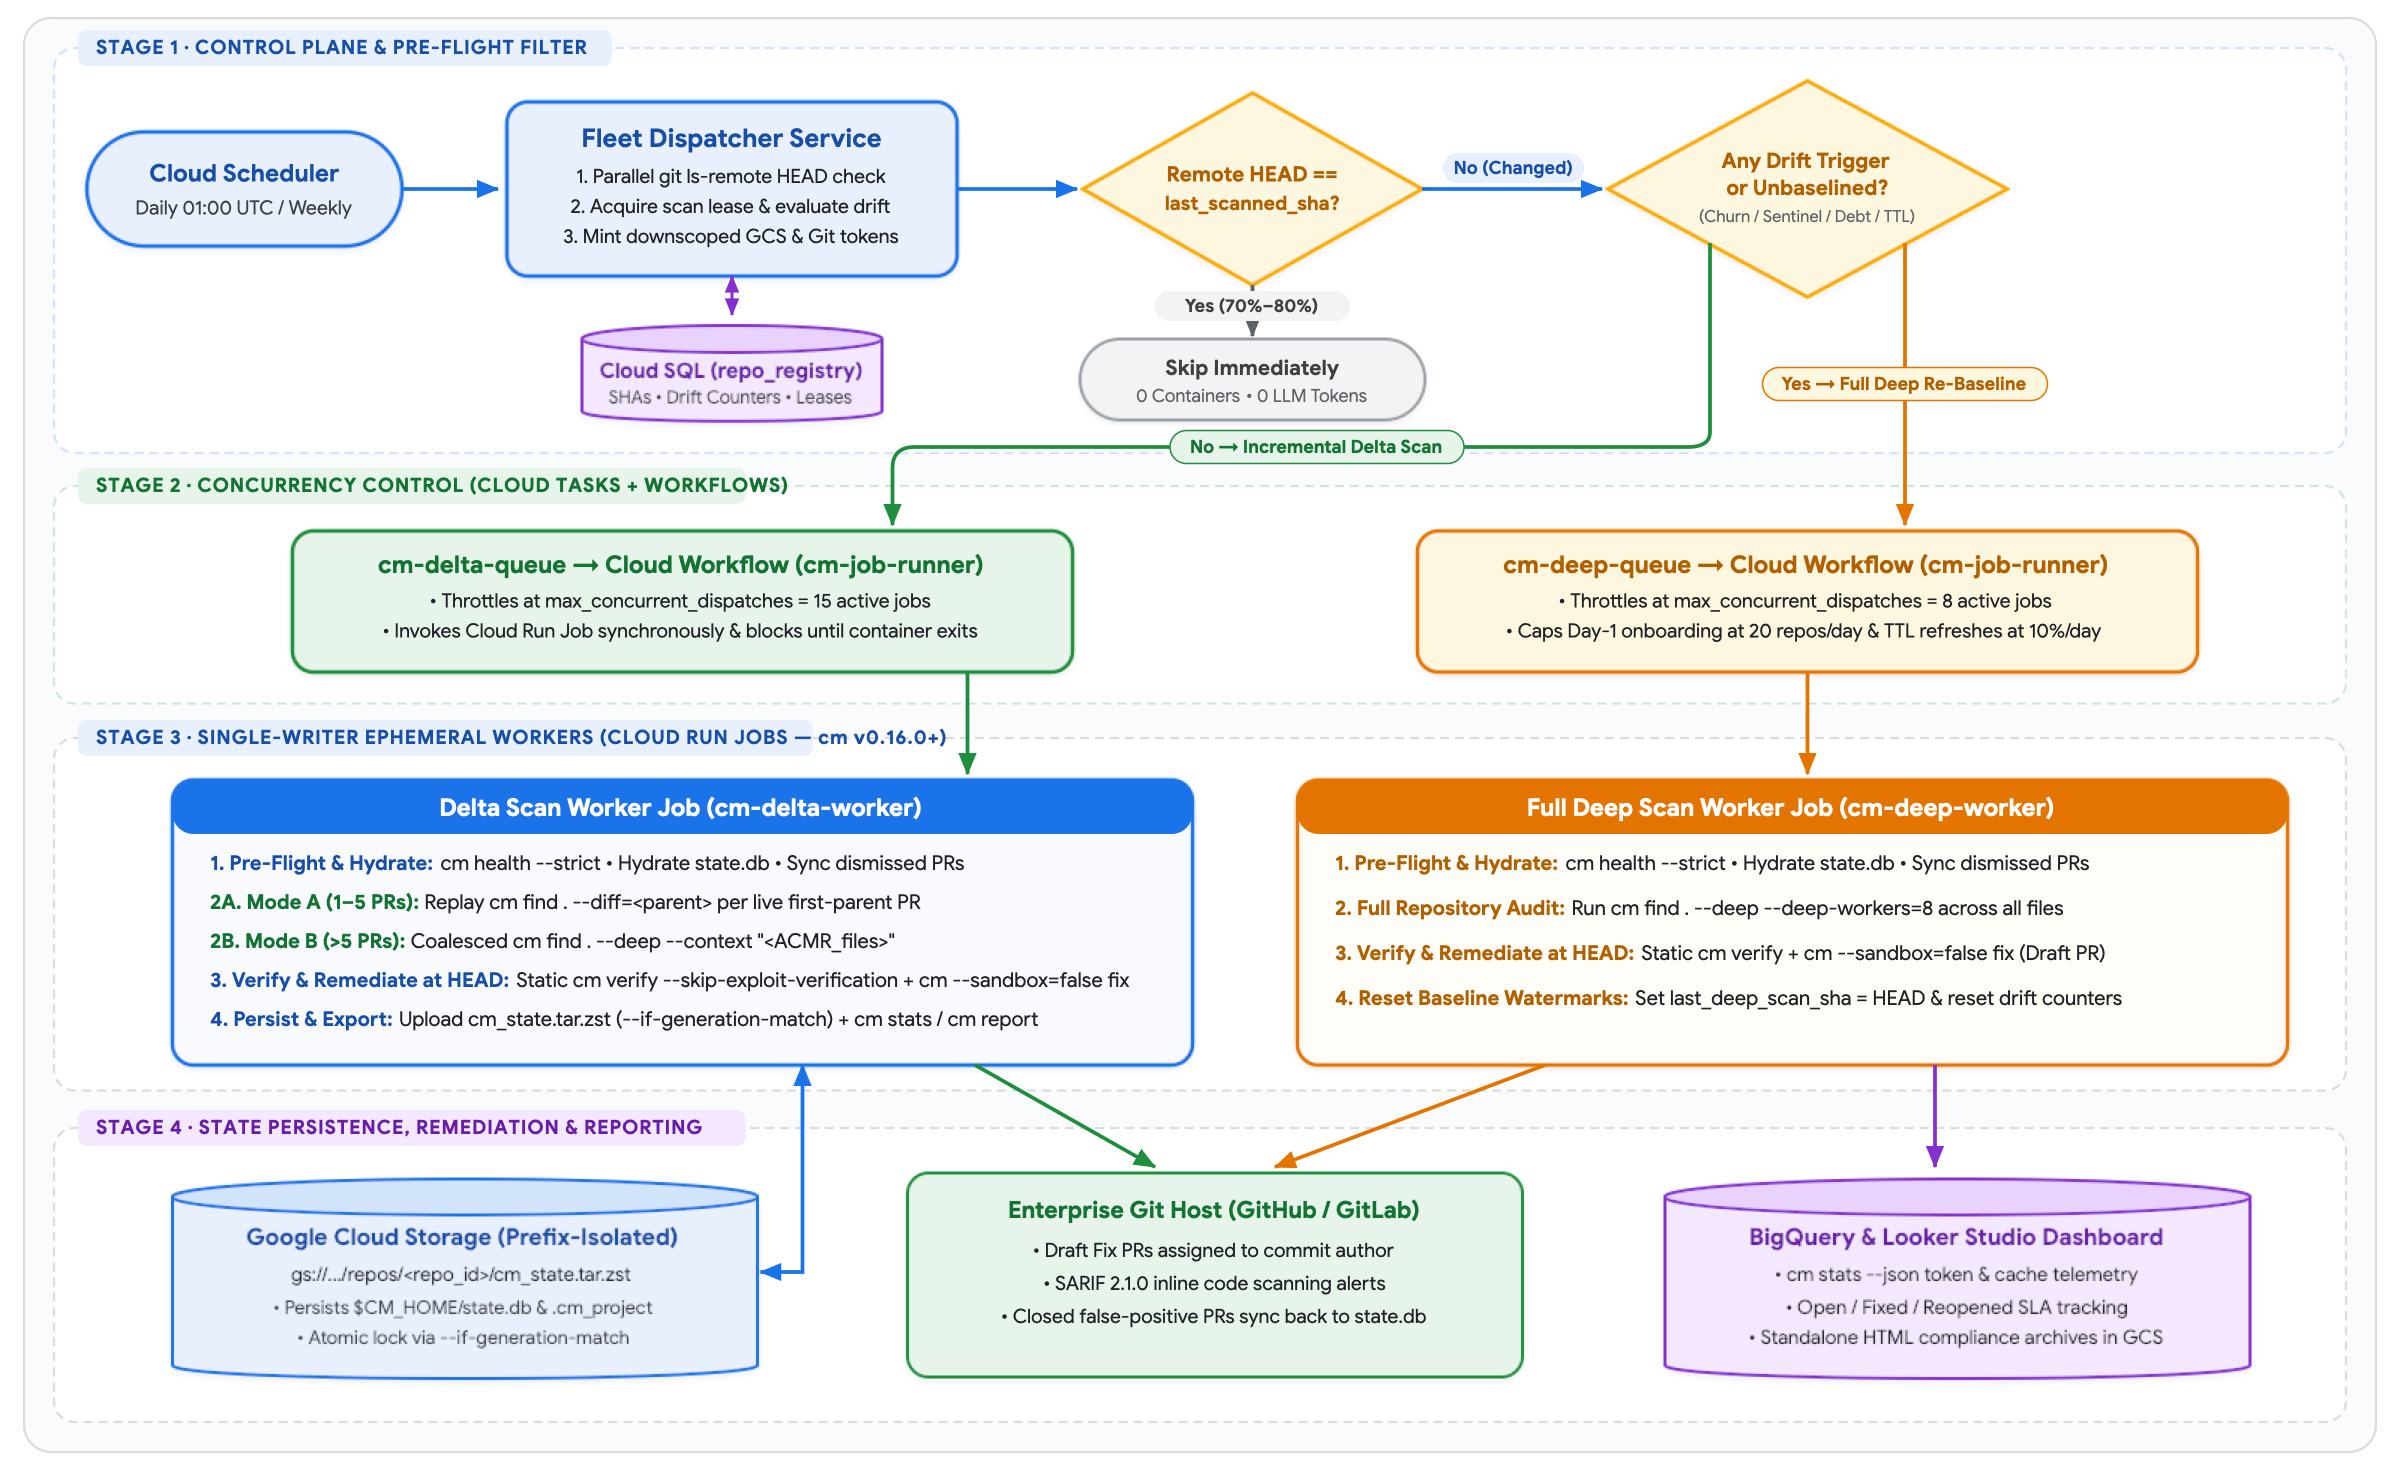
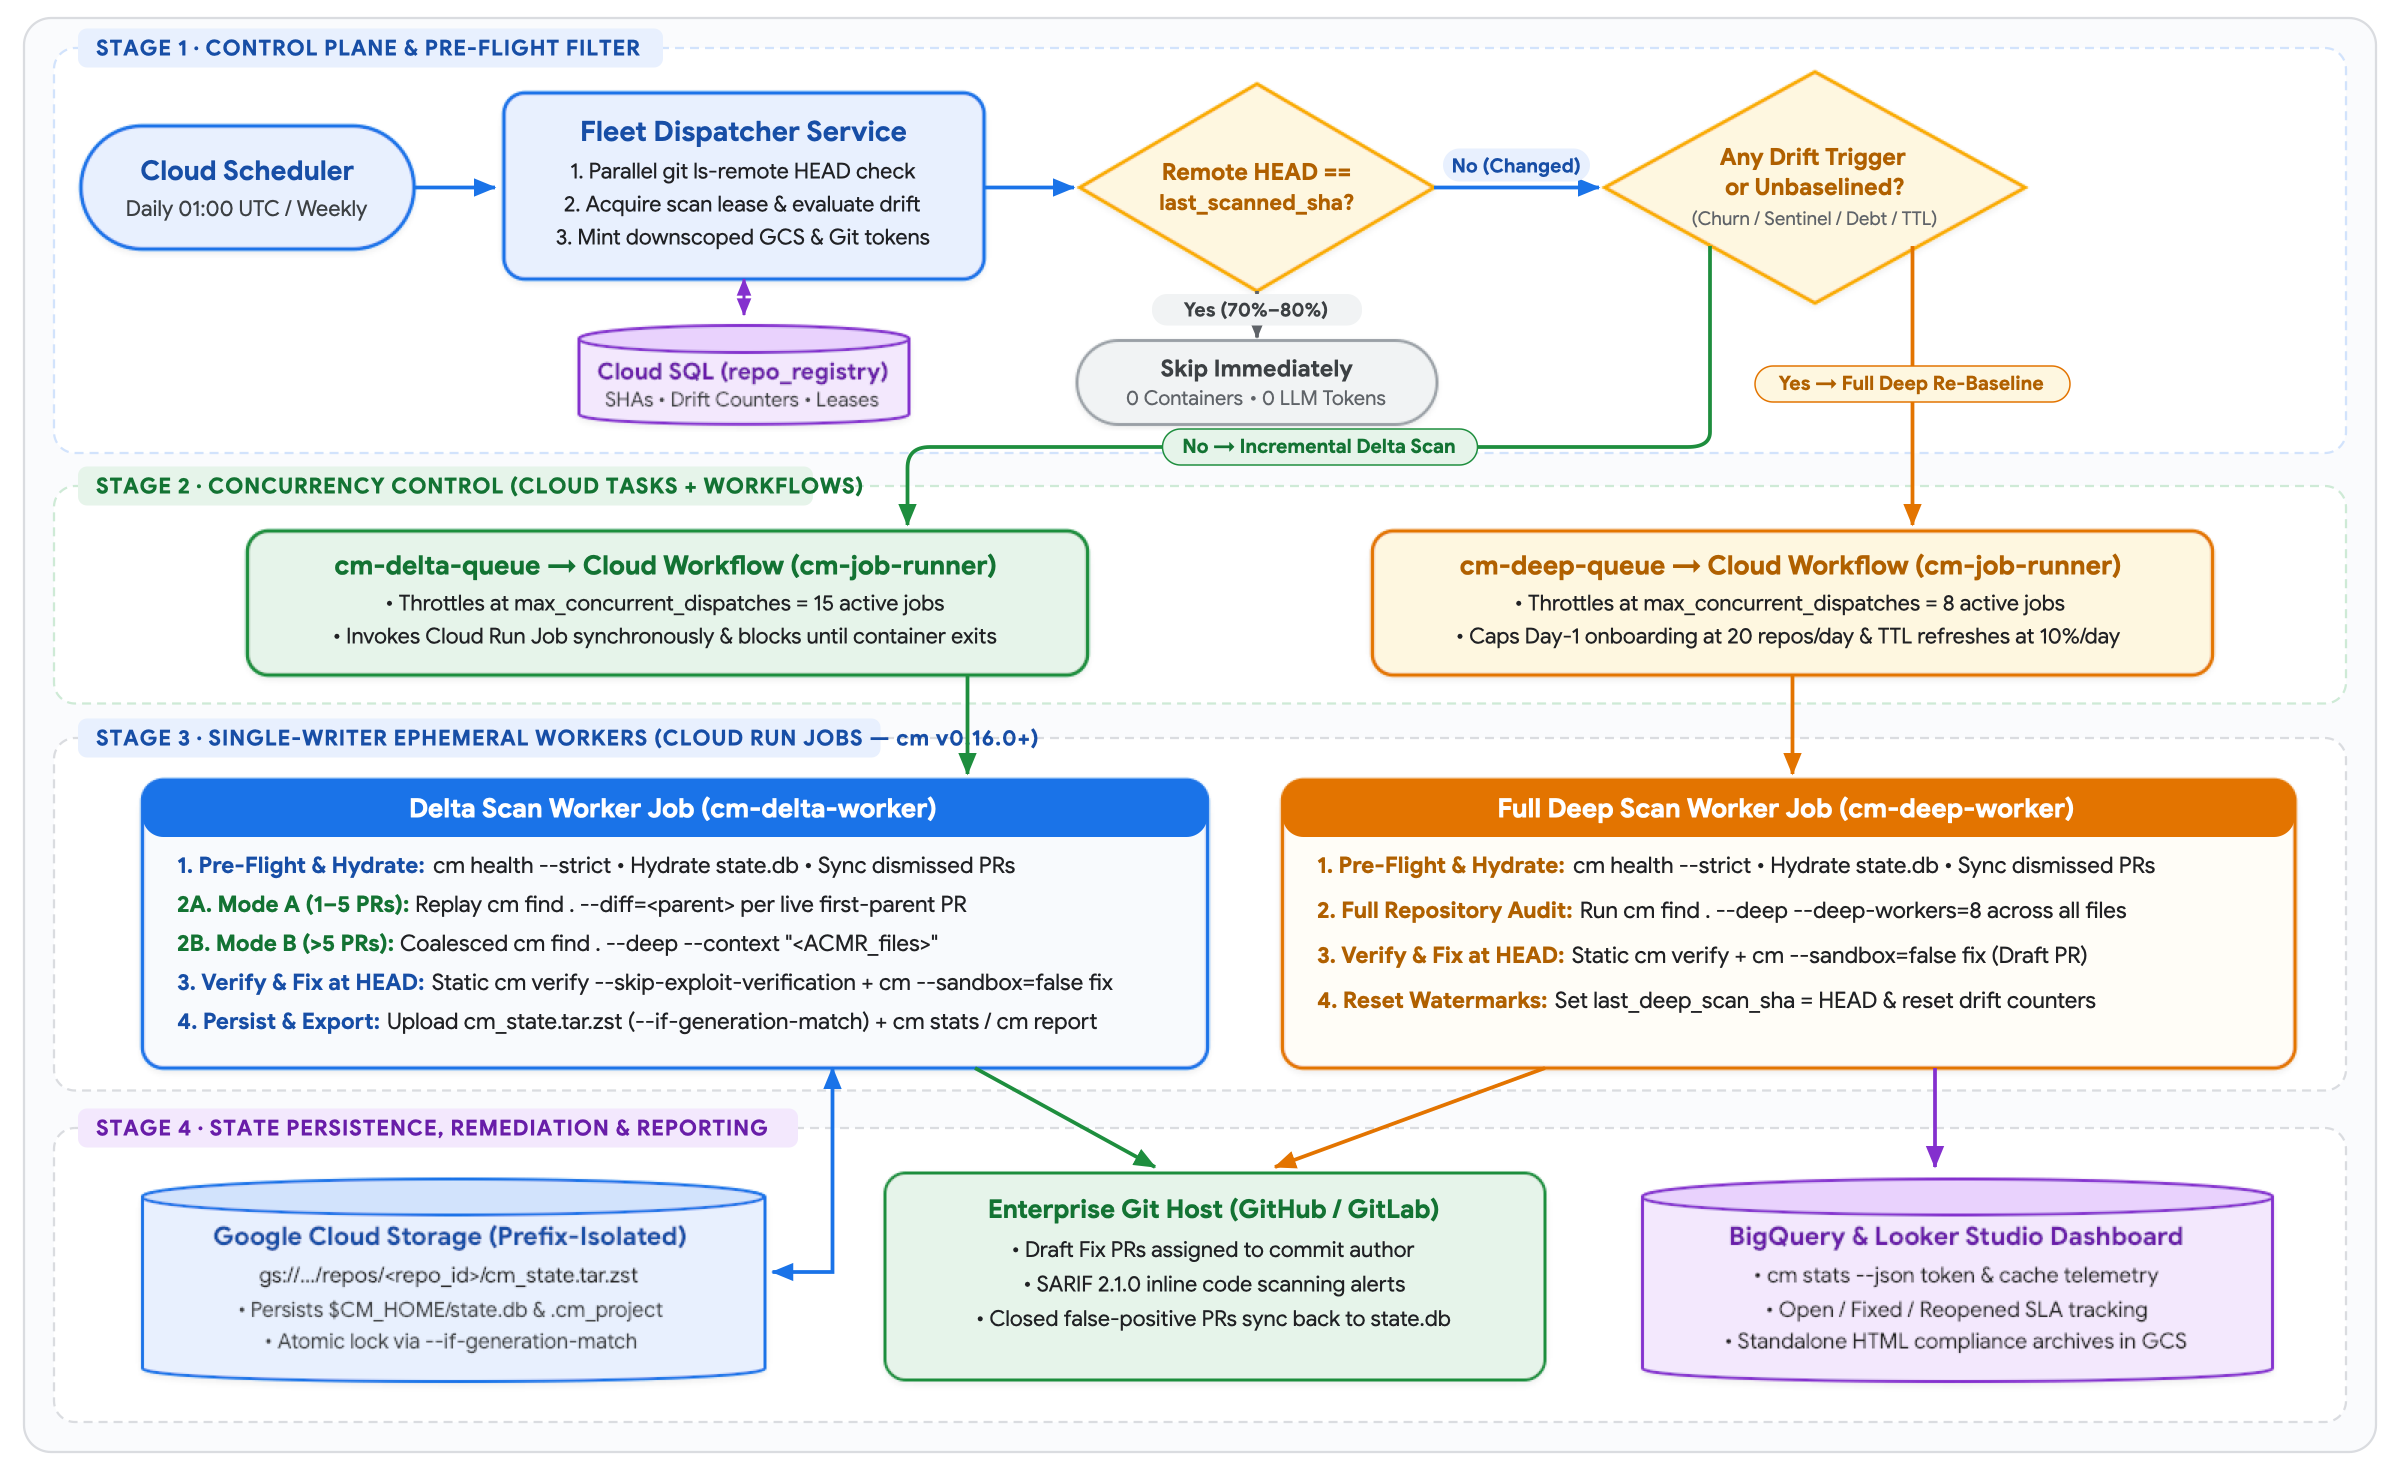
docs: remove Section 2.1 cm CLI background and increase diagram/doc font sizes

diff --git a/docs/codemender_fleet_scanning_design_doc.md b/docs/codemender_fleet_scanning_design_doc.md
@@ -30,19 +30,8 @@ Enterprise security teams adopting **CodeMender (`cm` v0.16.0+)** want to scan *
 
 ---
 
-## 2. CodeMender (`cm` v0.16.0+) Primitives & Goals
+## 2. Goals & Non-Goals
 
-CodeMender (`cm` v0.16.0+) runs a lightweight CLI worker that manages local SQLite state (`$CM_HOME/state.db`) and dispatches analysis sessions to the Gemini Enterprise Agent Platform (`gemini-3.8-flash` default; `gemini-3.8-flash-cyber` and `gemini-4-argon` for verification and high-assurance scans).
-
-| Scan Primitive | CLI Invocation (`v0.16.0+`) | Scope Audited | Workers | Avg Latency & Tokens | Fleet Monitoring Role |
-| :--- | :--- | :--- | :---: | :--- | :--- |
-| **Single-PR Diff** | `cm find . --diff=<ref>` | Modified hunks + 1-hop neighbors (cap 10–15) | 4 | **1–2 mins**<br/>~30k tokens / PR | **Mode A**: Per-PR replay ($1 \le N \le 5$ PRs) |
-| **Context-Scoped Deep** | `cm find . --deep -c "<files>"` | Extant changed files (`parseContextCandidates`) + 1-hop closure | 8 | **2–5 mins**<br/>~150k–180k tokens | **Mode B**: Coalesced delta ($N > 5$ PRs, $<20\%$ files) |
-| **Full Repo Deep** | `cm find . --deep` *(default)* | All tracked source files after Stage 1 Tree-Sitter AST pruning | 8 | **10–20 mins**<br/>~1.2M tokens | **Onboarding & Drift Re-Baseline** |
-
-> **Why Static Verify + Non-Sandboxed Fix Is Default**: `cm find --deep` already applies Stage 1 Tree-Sitter AST pruning and Stage 2 micro-batch verification (<2% false-positive rate). Because dynamic exploit verification (`cm verify`) requires a working per-repository build container (`build.command`), workers default to static verification (`cm verify --skip-exploit-verification --no-reset`) and non-sandboxed patch synthesis (`cm --sandbox=false fix <id> --yes` delivered as a **Draft PR**), with dynamic sandbox verification enabled opt-in for Tier-1 repositories.
-
-### 2.1 Goals & Non-Goals
 * **Goals**:
   * **G1 — Fleet Scale**: Monitor 100–500 repositories on a daily or weekly schedule, completing daily fleet sweeps in **< 45 minutes**.
   * **G2 — Full 1-Hop Coverage & Attribution**: Prevent neighbor truncation on multi-PR windows and attribute each finding to the introducing commit.
